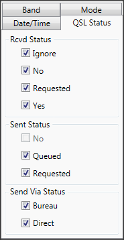
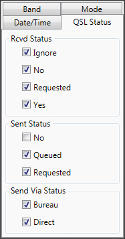
Undid the changes required for issue #9 because the method chosen did not match the descriptions of the various Qsl_Sent and Qsl_Rcvd statuses in ADIF 3.0.4.

diff --git a/hamqsler/QSOsView.xaml b/hamqsler/QSOsView.xaml
@@ -66,23 +66,7 @@
 												      HorizontalAlignment="Center"
 												      Visibility="Visible"
 												      IsChecked="{Binding Path=Include, Mode=TwoWay}"
-													  Click="IncludeClicked">
-												<CheckBox.Style>
-													<Style>
-														<Style.Setters>
-															<Setter Property="Control.IsEnabled" Value="False"/>
-														</Style.Setters>
-														<Style.Triggers>
-															<DataTrigger Binding='{Binding Path=Sent}' Value='Queued'>
-																<Setter Property="Control.IsEnabled" Value="True"/>									
-															</DataTrigger>
-															<DataTrigger Binding='{Binding Path=Sent}' Value='Requested'>
-																<Setter Property="Control.IsEnabled" Value="True"/>									
-															</DataTrigger>
-														</Style.Triggers>
-													</Style>
-												</CheckBox.Style>
-											</CheckBox>
+													  Click="IncludeClicked"/>
 										</DataTemplate>
 									</GridViewColumn.CellTemplate>
 								</GridViewColumn>

diff --git a/hamqsler/QSOsView.xaml.cs b/hamqsler/QSOsView.xaml.cs
@@ -258,18 +258,9 @@ namespace hamqsler
 				CheckBox bcb = new CheckBox();
 				bcb.Content = status;
 				bcb.Margin=new Thickness(20, 5, 20, 5);
-				if(status.Equals("Queued") || status.Equals("Requested"))
-				{
-					bcb.IsChecked = true;
-					bcb.IsEnabled = true;
-					bcb.Checked += OnSentCheckBoxChecked;
-					bcb.Unchecked += OnSentCheckBoxChecked;
-				}
-				else
-				{
-					bcb.IsChecked = false;
-					bcb.IsEnabled = false;
-				}
+				bcb.Checked += OnSentCheckBoxChecked;
+				bcb.Unchecked += OnSentCheckBoxChecked;
+				bcb.IsChecked = status.Equals("Queued") || status.Equals("Requested");
 				SentPanel.Children.Add(bcb);
 			}
 		}

diff --git a/hamqsler/DisplayQsos.cs b/hamqsler/DisplayQsos.cs
@@ -231,7 +231,7 @@ namespace hamqsler
 			this.Clear();
 			foreach(QsoWithInclude qso in list)
 			{
-				qso.Include = qso.Sent.Equals("Queued") || qso.Sent.Equals("Requested");
+				qso.Include = true;
 				this.Add(qso);
 			}
 			IsDirty = dirty;
